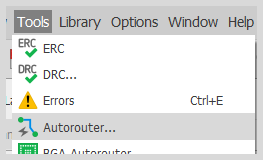
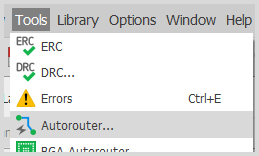
resize img

Changed region(s): [[0.0, 0.0513, 0.9884, 0.9744], [0.7104, 0.5897, 0.8649, 0.6667]]

diff --git a/docs/02-elecDesign.md b/docs/02-elecDesign.md
@@ -38,7 +38,7 @@ We will have to add and connect components in the schematic window first. To add
 ### Editing the schematic
 
 1. Add in the right components for your board.
-2. Use NET tool to wire our parts together. <img src="https://github.com/aloethere/EP1001/blob/gh-pages/images/elecDesign%20img/net%20icon.png?raw=true">
+2. Use NET tool to wire our parts together. <img src="https://github.com/aloethere/EP1001/blob/gh-pages/images/elecDesign%20img/net%20icon.png?raw=true" width="20">
 3. Use NAME tool to identify our components/name our nets. <img src="https://github.com/aloethere/EP1001/blob/gh-pages/images/elecDesign%20img/name%20icon.png?raw=true">
 4. Use VALUE tool to set resistors resistance or capacitors capacitance. <img src="https://github.com/aloethere/EP1001/blob/gh-pages/images/elecDesign%20img/value%20icon.png?raw=true">
 5. Verify the design using ERC. 
@@ -55,10 +55,10 @@ When we move to Board view, the components that we have just wire will be jumble
 
 1. Move individual components around. Rotate to figure out the simplest pathway.
 2. Route all the traces. Or use the autorouter feature.
-<br><img src="https://github.com/aloethere/EP1001/blob/gh-pages/images/elecDesign%20img/autorouter.png?raw=true">
+<br><img src="https://github.com/aloethere/EP1001/blob/gh-pages/images/elecDesign%20img/autorouter.png?raw=true" width="100">
 
 3. Use DRC to select wire dimention. 
-<img src="https://github.com/aloethere/EP1001/blob/gh-pages/images/elecDesign%20img/drc.png?raw=true" width="300">
+<br><img src="https://github.com/aloethere/EP1001/blob/gh-pages/images/elecDesign%20img/drc.png?raw=true" width="300">
 <img src="https://github.com/aloethere/EP1001/blob/gh-pages/images/elecDesign%20img/drc%20p2.png?raw=true" width="300">
 
 
